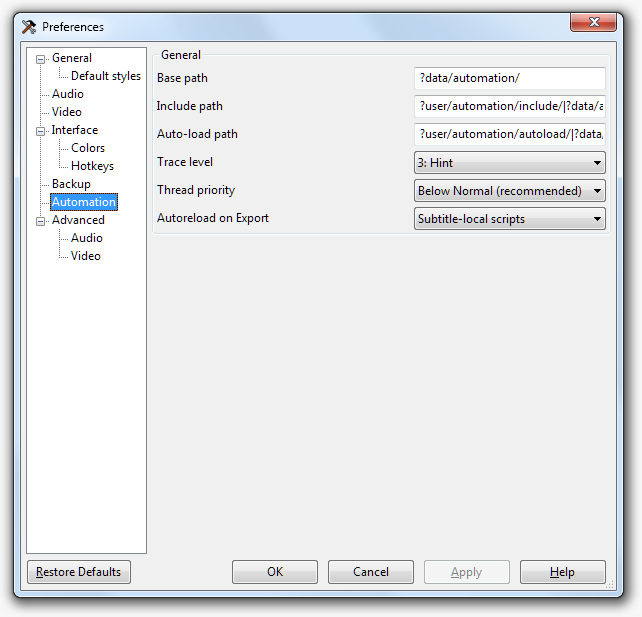
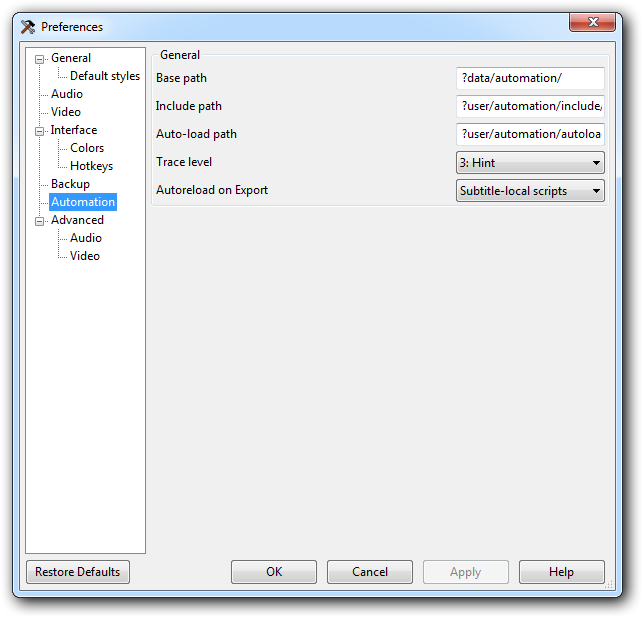
Miscellaneous changes (#49)
* Revert "Adding hotkeys on non-English UI has been fixed"

This reverts commit bde031b200faab21272bca5548f71863efb6bdbb.

* Adding hotkeys on non-English UI has been fixed

https://github.com/TypesettingTools/Aegisub/commit/801a8915d177da7800b5e2b767f3efbb94b1aa2f , or build r8725
Delete the note in 3.4 doc, and update that in 3.2 doc

* Translate some strings in /i18n

* Update screenshot of Preferences -> Automation

* Remove description of thread priority

Thread priority was removed in 3.2.0 https://github.com/Aegisub/Aegisub/commit/bf7503fe5

* Storage name encoding bug has been fixed

* Fix a title

* Fix a messy passage in Misc -> Autosave

Changed region(s): [[0.0, 0.0, 0.9969, 0.9854]]

diff --git a/content/zh-cn/docs/3.2/Options/index.html b/content/zh-cn/docs/3.2/Options/index.html
@@ -484,6 +484,8 @@ Accept the new hotkey by clicking on another row.</p>
 click the New button. Enter the <a href="../Commands/index.html">command name</a>, then set the hotkey
 as when editing them.</p>
 
+<p><strong>译者注：由于一个Bug，3.2版本添加热键时需切换为英文界面再添加。新版本已修复了这个Bug。</strong></p>
+
 <h2 id="section-16">备份</h2>
 
 <p><img class="center" alt="" width="642" height="617" src="../img/preferences-backup-7e9cada5.png" /></p>
@@ -535,13 +537,6 @@ trace level. If the trace level of a message is lower than the value given
 here, the message is not logged. The names given to the levels are only
 suggestions and they don't have any effect on the execution of the script.
 (i.e. a "Fatal" level message will not cause the script to terminate.)</dd>
-  <dt><strong>线程优先级</strong></dt>
-  <dt>译者注：3.x版没这个选项。</dt>
-  <dd>
-    <p>Priority given to the script execution thread. If you're on a
-single-core/single-CPU system having this on lower than normal will make other
-programs more responsive while long-running scripts are active.</p>
-  </dd>
   <dt><strong>自动重新载入导出</strong></dt>
   <dd>Automatically reloads the specified sets of scripts when the <a href="../Exporting/index.html">Exporting</a>
 dialogue is opened. In that case you will have to enter the

diff --git a/content/en/docs/3.2/Options/index.html b/content/en/docs/3.2/Options/index.html
@@ -626,10 +626,6 @@ trace level. If the trace level of a message is lower than the value given
 here, the message is not logged. The names given to the levels are only
 suggestions and they don't have any effect on the execution of the script.
 (i.e. a "Fatal" level message will not cause the script to terminate.)</dd>
-  <dt><strong>Thread priority</strong></dt>
-  <dd>Priority given to the script execution thread. If you're on a
-single-core/single-CPU system having this on lower than normal will make other
-programs more responsive while long-running scripts are active.</dd>
   <dt><strong>Autoreload on Export</strong></dt>
   <dd>Automatically reloads the specified sets of scripts when the <a href="../Exporting/index.html">Exporting</a>
 dialogue is opened. In that case you will have to enter the

diff --git a/content/zh-cn/docs/latest/Autosave.md b/content/zh-cn/docs/latest/Autosave.md
@@ -6,10 +6,7 @@ menu:
 weight: 7100
 ---
 
-默认情况下Aegisub每隔固定的时间就会自动保存一份当前正在编辑的字幕文件的备份(如果在这几分钟内有更改文件内容)。这些自动保存的文件可以在
-`%APPDATA%\Aegisub\autosave`(Windows系统)目录下找到；
-；`~/.aegisub/autosave` 目录下找到(Linux系统)；`~/Library/Application Support/Aegisub/autosave`在(OS X系统)。另外地，这些文件可以从Aegisub的
-文件→ 打开自动保存的字幕 项中打开。
+默认情况下Aegisub每隔固定的时间就会自动保存一份当前正在编辑的字幕文件的备份(如果在这几分钟内有更改文件内容)。这些备份文件在 Windows 系统中位于 `%APPDATA%\Aegisub\autosave`，在 Linux 系统中位于 `~/.aegisub/autosave`，在 OS X 系统中则位于 `~/Library/Application Support/Aegisub/autosave`。您还可以直接在 Aegisub 中通过 “文件” → “打开自动保存的字幕...” 浏览这些备份。
 
 ![autosave-menu](/img/3.2/autosave-menu.png#center)
 

diff --git a/content/zh-cn/docs/latest/Options.md b/content/zh-cn/docs/latest/Options.md
@@ -317,8 +317,6 @@ To add a new hotkey, select the context you want to add the hotkey to,
 then click the New button. Enter the [command
 name]({{< relref "Commands" >}}), then set the hotkey as when editing them.
 
-**译者注：由于一个Bug，3.x版本添加热键时需切换为英文界面再添加，这个Bug会在3.3版时被修复。**
-
 ## 备份
 
 ![preferences-backup](/img/3.2/preferences-backup.png#center)
@@ -379,13 +377,6 @@ name]({{< relref "Commands" >}}), then set the hotkey as when editing them.
   the levels are only suggestions and they don't have any effect on
   the execution of the script. (i.e. a "Fatal" level message will
   not cause the script to terminate.)
-
-线程优先级
-译者注：3.x版没这个选项。
-: Priority given to the script execution thread. If you're on a
-  single-core/single-CPU system having this on lower than normal will
-  make other programs more responsive while long-running scripts are
-  active.
 
 自动重新载入导出
 : Automatically reloads the specified sets of scripts when the

diff --git a/content/zh-cn/docs/latest/Styles.md b/content/zh-cn/docs/latest/Styles.md
@@ -18,7 +18,7 @@ Aegisub的样式管理器工具 (字幕菜单下可找到)
 
 如你所见,
 窗口被分为两半。右半窗口显示的是目前脚本所有可用的样式;左半窗口显示的是样式库中的样式。样式库的存在是为了方便您从其他字幕文件中快速导入样式到当前字幕文件中。
-你想建立多少个样式库就可以建多少个（译者注：目前版已知bug，样式库名称不能含有中文）;
+你想建立多少个样式库就可以建多少个;
 一些人喜欢把他们使用的样式都存在一个样式库中,其他人喜欢按照字体、外观或者首字母顺序存储样式库。
 通过顶部的下拉菜单可以切换样式库，样式库内容显示在左半窗口。
 

diff --git a/content/en/docs/latest/Options.md b/content/en/docs/latest/Options.md
@@ -457,11 +457,6 @@ Trace level
   suggestions and they don't have any effect on the execution of the script.
   (i.e. a "Fatal" level message will not cause the script to terminate.)
 
-Thread priority
-: Priority given to the script execution thread. If you're on a
-  single-core/single-CPU system having this on lower than normal will make other
-  programs more responsive while long-running scripts are active.
-
 Autoreload on Export
 : Automatically reloads the specified sets of scripts when the [Exporting]({{< relref "Exporting" >}})
   dialogue is opened. In that case you will have to enter the

diff --git a/content/zh-cn/docs/latest/Tutorials.md b/content/zh-cn/docs/latest/Tutorials.md
@@ -38,7 +38,7 @@ weight: 2700
 
 - 作者：Niels Martin Hansen
 
-### 可视化排版g
+### 可视化排版
 
 - 简介：演示如何使用 Aegisub 2 全新的可视化排版功能。
 - 作者：Rodrigo Braz Monteiro
